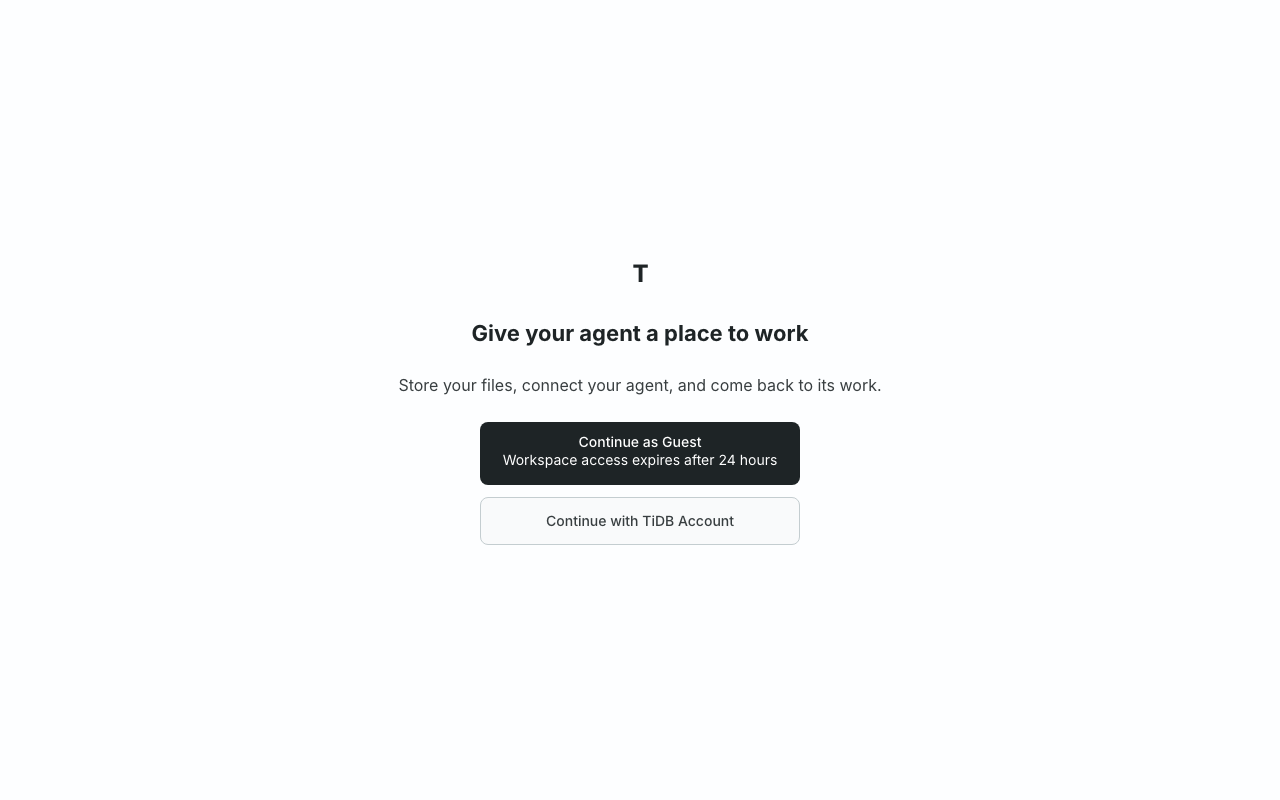
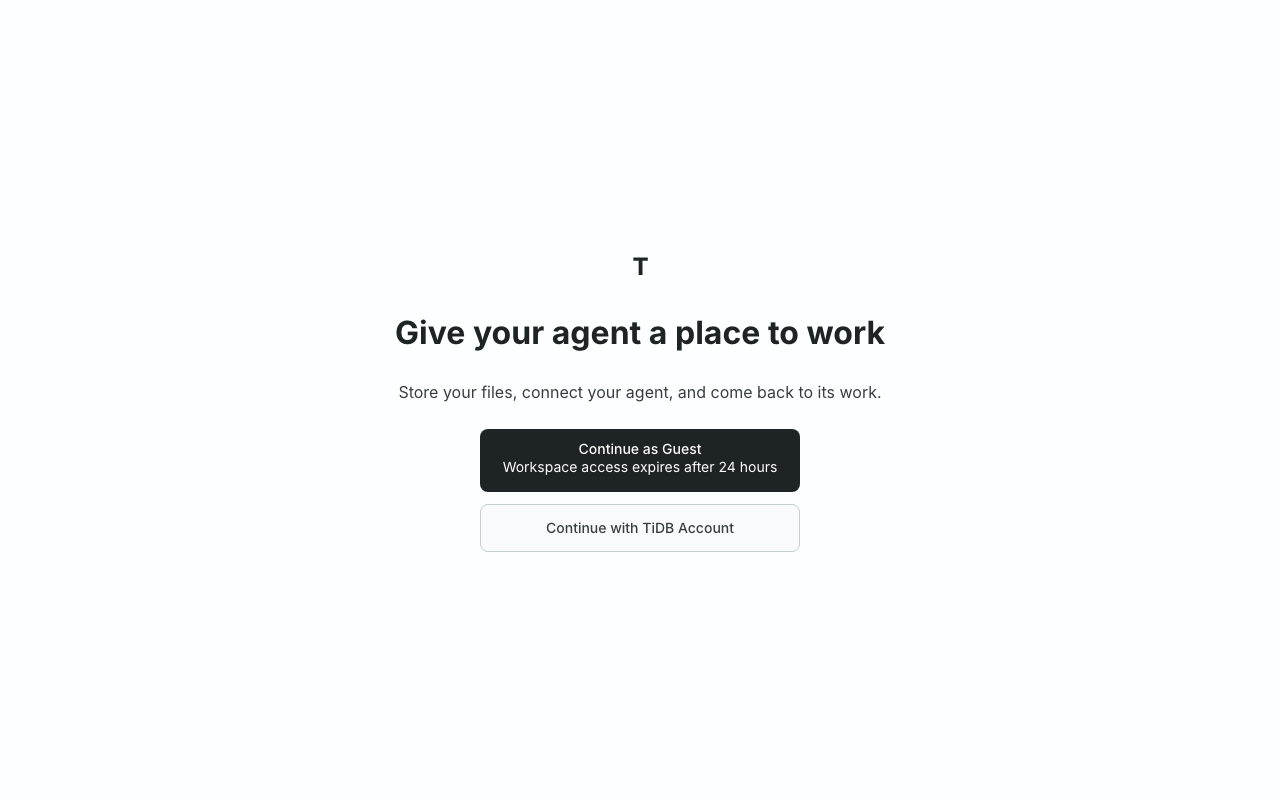
fix(auth): expose a clear entry page heading

Changed region(s): [[0.3125, 0.4688, 0.6875, 0.6875], [0.3125, 0.4062, 0.6875, 0.4375]]

diff --git a/src/App.tsx b/src/App.tsx
@@ -405,7 +405,7 @@ function App() {
         {error && sso.enabled && needsSignIn ? (
           // SSO is enabled and no session is active yet: prompt sign-in (no anonymous demo).
           <>
-            <Heading level={2}>Give your agent a place to work</Heading>
+            <Heading level={1}>Give your agent a place to work</Heading>
             <Text component="p">
               Store your files, connect your agent, and come back to its work.
             </Text>
